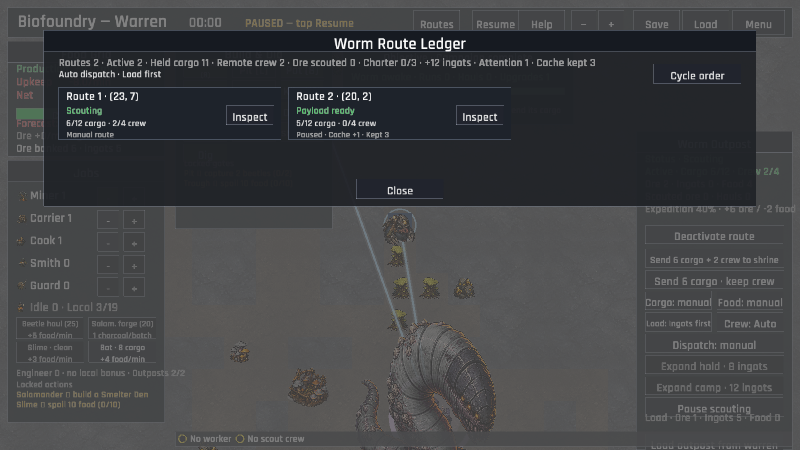
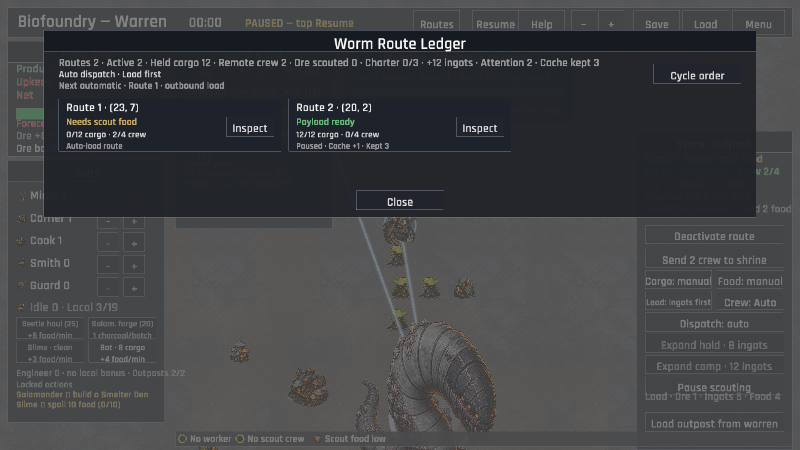
The route book names the next road call before the Worm moves (automatic dispatch preview)
The new automatic priority control changed which policy wins, but the ledger still left the consequence implicit. Share each policy's eligibility predicate between the fixed-step scheduler and a read-only preview so the player can see the exact route and job that would claim the Worm, or that the Worm is currently busy.

Stage the competing-policy capture with a ready outbound load and full automatic return, then document the normal and compact evidence and touch audit. Keep the preview guarded by the same awakened Shrine and transit conditions as actual dispatch.

diff --git a/src/simulation/outposts.rs b/src/simulation/outposts.rs
@@ -3,7 +3,8 @@
 use crate::data::GameData;
 use crate::state::creatures::Good;
 use crate::state::outposts::{
-    CargoPriority, ExpeditionCompletion, Outpost, TransitCompletion, TransitDirection, WormTransit,
+    AutoRoutePriority, CargoPriority, ExpeditionCompletion, Outpost, TransitCompletion,
+    TransitDirection, WormTransit,
 };
 use crate::state::GameSession;
 use macroquad_toolkit::grid::TilePos;
@@ -172,6 +173,14 @@ pub enum ExpeditionState {
     },
 }
 
+/// The next eligible automatic job according to the shared Worm's current
+/// priority and fair route cursor.
+#[derive(Debug, Clone, Copy, PartialEq, Eq)]
+pub struct AutomaticRoutePreview {
+    pub outpost: TilePos,
+    pub priority: AutoRoutePriority,
+}
+
 impl CargoLoad {
     pub fn total(self) -> u32 {
         self.ore
@@ -238,6 +247,70 @@ pub fn has_loadable_payload(session: &GameSession, data: &GameData, outpost: &Ou
                 && creature.carrying.is_none()
                 && creature.tile() == session.stockpile_pos()
         })
+}
+
+/// Preview the automatic job that would claim the Worm if it were free now.
+/// This intentionally uses the same eligibility predicates as the dispatcher,
+/// so the ledger never promises a route the next fixed-step tick cannot start.
+pub fn automatic_route_preview(
+    session: &GameSession,
+    data: &GameData,
+) -> Option<AutomaticRoutePreview> {
+    if !session.worm_awake
+        || session.worm_transit.is_some()
+        || session.buildings_of("worm_shrine").next().is_none()
+    {
+        return None;
+    }
+    for priority in session.auto_route_priority.order() {
+        let index = match priority {
+            AutoRoutePriority::Return => {
+                next_auto_route_index(session, |outpost| auto_return_ready(outpost, data))
+            }
+            AutoRoutePriority::Resupply => next_auto_route_index(session, |outpost| {
+                auto_resupply_ready(session, data, outpost)
+            }),
+            AutoRoutePriority::Load => {
+                next_auto_route_index(session, |outpost| auto_load_ready(session, data, outpost))
+            }
+        };
+        if let Some(index) = index {
+            return Some(AutomaticRoutePreview {
+                outpost: session.outposts[index].pos,
+                priority,
+            });
+        }
+    }
+    None
+}
+
+fn auto_return_ready(outpost: &Outpost, data: &GameData) -> bool {
+    outpost.active
+        && outpost.auto_return_cargo
+        && outpost.cargo_total() >= storage_capacity(outpost, data)
+}
+
+fn auto_resupply_ready(session: &GameSession, data: &GameData, outpost: &Outpost) -> bool {
+    let food_required =
+        (outpost.crew.len() as u32).saturating_mul(data.balance.outpost_expedition_food_per_crew);
+    let food_available = outpost.cargo.get(&Good::CookedFood).copied().unwrap_or(0);
+    let food_ready_at_warren = (session.economy.food - data.balance.worm_feed_reserve)
+        .max(0.0)
+        .floor() as u32;
+    outpost.active
+        && outpost.auto_resupply_food
+        && !outpost.expedition_paused
+        && !outpost.crew.is_empty()
+        && outpost.cargo_total() < storage_capacity(outpost, data)
+        && food_available < food_required
+        && food_ready_at_warren > 0
+}
+
+fn auto_load_ready(session: &GameSession, data: &GameData, outpost: &Outpost) -> bool {
+    outpost.active
+        && outpost.auto_load
+        && !outpost.expedition_paused
+        && has_loadable_payload(session, data, outpost)
 }
 
 pub fn expedition_state(outpost: &Outpost, data: &GameData) -> ExpeditionState {
@@ -332,11 +405,7 @@ pub fn start_auto_return_if_full(session: &mut GameSession, data: &GameData) -> 
     if session.worm_transit.is_some() {
         return None;
     }
-    let index = next_auto_route_index(session, |outpost| {
-        outpost.active
-            && outpost.auto_return_cargo
-            && outpost.cargo_total() >= storage_capacity(outpost, data)
-    })?;
+    let index = next_auto_route_index(session, |outpost| auto_return_ready(outpost, data))?;
     let pos = session.outposts[index].pos;
     if start_transit(
         session,
@@ -363,19 +432,7 @@ pub fn start_auto_resupply_if_needed(
         return None;
     }
     let index = next_auto_route_index(session, |outpost| {
-        let food_required = (outpost.crew.len() as u32)
-            .saturating_mul(data.balance.outpost_expedition_food_per_crew);
-        let food_available = outpost.cargo.get(&Good::CookedFood).copied().unwrap_or(0);
-        let food_ready_at_warren = (session.economy.food - data.balance.worm_feed_reserve)
-            .max(0.0)
-            .floor() as u32;
-        outpost.active
-            && outpost.auto_resupply_food
-            && !outpost.expedition_paused
-            && !outpost.crew.is_empty()
-            && outpost.cargo_total() < storage_capacity(outpost, data)
-            && food_available < food_required
-            && food_ready_at_warren > 0
+        auto_resupply_ready(session, data, outpost)
     })?;
     let pos = session.outposts[index].pos;
     if start_transit(
@@ -399,12 +456,7 @@ pub fn start_auto_load_if_ready(session: &mut GameSession, data: &GameData) -> O
     if session.worm_transit.is_some() {
         return None;
     }
-    let index = next_auto_route_index(session, |outpost| {
-        outpost.active
-            && outpost.auto_load
-            && !outpost.expedition_paused
-            && has_loadable_payload(session, data, outpost)
-    })?;
+    let index = next_auto_route_index(session, |outpost| auto_load_ready(session, data, outpost))?;
     let pos = session.outposts[index].pos;
     if start_transit(
         session,

diff --git a/src/ui/hud/routes.rs b/src/ui/hud/routes.rs
@@ -41,7 +41,7 @@ pub(super) fn draw_route_overview(
     let relay_summary = relay_contract_summary(session, data);
     let convoy_summary = convoy_contract_summary(session, data);
     let transit_summary = worm_transit_summary(session);
-    let summary_lines = 1
+    let summary_lines = 2
         + relay_summary.is_some() as u32
         + convoy_summary.is_some() as u32
         + transit_summary.is_some() as u32;
@@ -82,6 +82,13 @@ pub(super) fn draw_route_overview(
     ) {
         actions.push(UiAction::CycleAutoRoutePriority);
     }
+    summary_y += 18.0;
+    draw_ui_text_ex(
+        &automatic_route_summary(session, data),
+        panel.x + 24.0,
+        summary_y,
+        TextStyle::new(13.0, dark::TEXT_DIM).params(),
+    );
     summary_y += 18.0;
     if let Some(summary) = relay_summary {
         draw_ui_text_ex(
@@ -363,6 +370,25 @@ fn worm_transit_summary(session: &GameSession) -> Option<String> {
         "Worm in transit · {route} {direction} · {:.0}s remaining",
         transit.remaining.max(0.0)
     ))
+}
+
+fn automatic_route_summary(session: &GameSession, data: &GameData) -> String {
+    if session.worm_transit.is_some() {
+        return "Automatic jobs · waiting for Worm".to_owned();
+    }
+    let Some(preview) = crate::simulation::outposts::automatic_route_preview(session, data) else {
+        return "Automatic jobs · none ready".to_owned();
+    };
+    let route = session
+        .outposts
+        .iter()
+        .position(|outpost| outpost.pos == preview.outpost)
+        .map(|index| format!("Route {}", index + 1))
+        .unwrap_or_else(|| "Route".to_owned());
+    format!(
+        "Next automatic · {route} · {}",
+        preview.priority.job_label()
+    )
 }
 
 fn route_needs_attention(outpost: &Outpost, data: &GameData) -> bool {

diff --git a/src/ui/hud/routes/tests.rs b/src/ui/hud/routes/tests.rs
@@ -205,6 +205,46 @@ fn worm_transit_summary_keeps_an_unlisted_route_diagnostic_readable() {
 }
 
 #[test]
+fn automatic_route_summary_names_the_next_ready_job() {
+    let data = GameData::load().expect("embedded game data");
+    let mut session = GameSession::new(&data, 53);
+    let shrine = session.spawn_tile();
+    session.buildings.push(Building::new("worm_shrine", shrine));
+    session.worm_awake = true;
+    let mut route = Outpost::new(TilePos::new(8, 8));
+    route.active = true;
+    route.auto_load = true;
+    session.outposts.push(route);
+    session.economy.ore_stock = 1;
+
+    assert_eq!(
+        automatic_route_summary(&session, &data),
+        "Next automatic · Route 1 · outbound load"
+    );
+}
+
+#[test]
+fn automatic_route_summary_explains_when_the_worm_is_unavailable() {
+    let data = GameData::load().expect("embedded game data");
+    let mut session = GameSession::new(&data, 54);
+    session.outposts.push(Outpost::new(TilePos::new(8, 8)));
+    session.worm_transit = Some(crate::state::outposts::WormTransit {
+        outpost: TilePos::new(8, 8),
+        direction: TransitDirection::ToOutpost,
+        remaining: 4.0,
+        ore: 1,
+        ingots: 0,
+        food: 0.0,
+        passengers: Vec::new(),
+    });
+
+    assert_eq!(
+        automatic_route_summary(&session, &data),
+        "Automatic jobs · waiting for Worm"
+    );
+}
+
+#[test]
 fn route_policy_label_explains_automatic_choices() {
     let mut route = Outpost::new(TilePos::new(4, 4));
     assert_eq!(route_policy_label(&route), "Manual route");

diff --git a/src/game/capture_scenes/post_campaign.rs b/src/game/capture_scenes/post_campaign.rs
@@ -143,6 +143,21 @@ pub(super) fn begin(game: &mut Game, scene: &str) -> bool {
             game.paused = true;
             if let GameState::Warren(session) = &mut game.state {
                 session.auto_route_priority = AutoRoutePriority::Load;
+                session.economy.ore_stock = 1;
+                if let Some(route) = session.outposts.first_mut() {
+                    route.auto_load = true;
+                    route.auto_return_cargo = false;
+                    route.cargo.clear();
+                }
+                if let Some(route) = session.outposts.get_mut(1) {
+                    route.auto_load = false;
+                    route.auto_return_cargo = true;
+                    route.expedition_paused = true;
+                    route.cargo.clear();
+                    route
+                        .cargo
+                        .insert(Good::Ore, game.data.balance.outpost_storage_cap);
+                }
             }
             true
         }

diff --git a/src/simulation/tests/novel/auto_priority.rs b/src/simulation/tests/novel/auto_priority.rs
@@ -1,7 +1,7 @@
 //! Coverage for choosing which automatic job receives the shared Worm first.
 
 use super::active_outpost;
-use crate::simulation;
+use crate::simulation::{self, outposts};
 use crate::state::creatures::Good;
 use crate::state::outposts::AutoRoutePriority;
 use crate::state::structures::Building;
@@ -26,6 +26,11 @@ fn load_first_can_precede_a_ready_automatic_return() {
     session.outposts[1].auto_load = true;
     session.economy.ore_stock = 1;
     session.auto_route_priority = AutoRoutePriority::Load;
+
+    let preview = outposts::automatic_route_preview(&session, &data)
+        .expect("load-first preview should find the second route");
+    assert_eq!(preview.outpost, second_pos);
+    assert_eq!(preview.priority, AutoRoutePriority::Load);
 
     let report = simulation::tick(&mut session, &data);
 

diff --git a/src/state/outposts.rs b/src/state/outposts.rs
@@ -61,6 +61,14 @@ impl AutoRoutePriority {
         }
     }
 
+    pub fn job_label(self) -> &'static str {
+        match self {
+            Self::Return => "cargo return",
+            Self::Resupply => "food resupply",
+            Self::Load => "outbound load",
+        }
+    }
+
     pub fn order(self) -> [Self; 3] {
         match self {
             Self::Return => [Self::Return, Self::Resupply, Self::Load],

diff --git a/docs/phase-one/CANDIDATE_VERIFICATION.md b/docs/phase-one/CANDIDATE_VERIFICATION.md
@@ -47,7 +47,7 @@ automated simulation results into first-time-player evidence.
 | Endless automatic cargo returns | Pass (focused and capture evidence) | An awakened Outpost exposes the persisted `Auto-return · Off` / `Auto-return · Cargo only` policy. When an opted-in hold reaches capacity, the fixed-step simulation starts one cargo-only return, preserves the remote scouts and one configured expedition's food when other cargo creates room, and returns provisions too when they alone fill the hold so the route can resupply. It emits a departure notice and autosaves the safe beat; later routes wait for the global worm transit. Refreshed [ui_endless_auto_return.png](../verification/ui_endless_auto_return.png) shows the enabled policy beside the manual return and scouting controls. Live Preview route interaction remains unclaimed because the resumed developer save has not yet reached the Outpost unlock. |
 | Endless automatic Outpost resupply | Pass (focused and capture evidence) | An awakened Outpost exposes the persisted `Auto-resupply · Off` / `Auto-resupply · Food only` policy. When staffed remote scouts need provisions, the fixed-step simulation starts a food-only transit from the home reserve without dispatching more crew; a manually paused expedition is left untouched. The departure notice, Objective, and field guide name the automatic behavior. Refreshed [ui_endless_auto_resupply.png](../verification/ui_endless_auto_resupply.png) shows the shortage state, enabled policy, and visible recovery controls. Live Preview route interaction remains unclaimed because the resumed developer save has not yet reached the Outpost unlock. |
 | Endless automatic outbound loading | Pass (focused and capture evidence) | An awakened Outpost exposes the persisted `Auto-load · Off` / `Auto-load · Cargo + crew` policy. When an opted-in route has hold room and reserve-safe cargo or eligible local scouts, the fixed-step simulation starts one standard outbound run, respects manual scouting pause and full holds, and shares the persisted round-robin cursor with the other automatic logistics policies. The departure notice, Objective, route ledger, and field guide name the behavior. Refreshed [ui_endless_auto_load.png](../verification/ui_endless_auto_load.png) and [ui_endless_auto_load_started.png](../verification/ui_endless_auto_load_started.png) show the enabled policy and in-flight departure, with compact variants preserving the 800×450 controls. Live Preview route interaction remains unclaimed because the resumed developer save has not yet reached the Outpost unlock. |
-| Endless automatic dispatch order | Pass (focused, capture, and touch-audit evidence) | The shared Worm's automatic route jobs now have a persisted global order: `Return first`, `Food first`, or `Load first`. The Routes ledger exposes `Cycle order`, announces the selected order, and the fixed-step dispatcher uses it when multiple automatic policies are ready while retaining the fair route cursor within each policy. Focused state and simulation coverage verify the cycle, legacy saves default to return-first, and [ui_endless_auto_priority.png](../verification/ui_endless_auto_priority.png) plus [ui_compact_endless_auto_priority.png](../verification/ui_compact_endless_auto_priority.png) show the choice visible and tappable; the 800×450 touch audit reports no overlap. |
+| Endless automatic dispatch order | Pass (focused, capture, and touch-audit evidence) | The shared Worm's automatic route jobs now have a persisted global order: `Return first`, `Food first`, or `Load first`. The Routes ledger exposes `Cycle order`, announces the selected order, and names the exact next eligible route/job, while the fixed-step dispatcher uses the same order when multiple automatic policies are ready and retains the fair route cursor within each policy. Focused state and simulation coverage verify the cycle, preview, scheduler precedence, and legacy return-first default; [ui_endless_auto_priority.png](../verification/ui_endless_auto_priority.png) plus [ui_compact_endless_auto_priority.png](../verification/ui_compact_endless_auto_priority.png) show `Next automatic · Route 1 · outbound load` visible and tappable, and the 800×450 touch audit reports no overlap. |
 | Endless transit failure recovery | Pass (focused and published build evidence) | If an in-flight worm route is deactivated, the simulation restores its payload, records the failed Outpost, and emits a one-shot transit-failure event. The game turns that event into a visible danger notification with the exact recovery action and treats it as a safe-beat autosave, so a refresh cannot erase the route's recovered state. |
 | Multi-route failure visibility | Pass (focused evidence) | Reopening one failed Outpost now clears only that route's failure; the global route warning remains visible while any other Outpost still needs recovery, including when a healthy second route starts a transit. This keeps the top-bar warning consistent with the per-route inspection state as remote routes multiply. |
 | Loaded route failure visibility | Pass (focused and published build evidence) | Installing a save now reconciles each persisted Outpost failure with the global top-bar warning, repairing a missing banner and clearing a stale one. The route records remain authoritative across refresh and load boundaries. |
@@ -71,7 +71,7 @@ automated simulation results into first-time-player evidence.
 | Network route summary | Pass (published capture evidence) | The Worm Route Ledger now summarizes the whole network above its cards: total routes, active routes, held cargo, remote crew, scouted ore, live Worm Road Charter progress/reward, routes needing attention, and aggregate `Cache kept N` earnings when any route has a cache. Each route card also mirrors the selected Outpost's persisted Signal Cache history, showing `Cache +N/haul · Kept N` at normal size and a compact `Cache +N · Kept N` policy line at 800×450. The summary is derived from the same persisted route state as the cards, so scaling from one route to several does not require opening each card to understand the network. Refreshed [ui_endless_routes.png](../verification/ui_endless_routes.png) and [ui_compact_endless_routes.png](../verification/ui_compact_endless_routes.png) keep the summary and route controls readable. |
 | Shared-worm transit diagnostic | Pass (capture and touch-audit evidence) | While one route is traveling, the Worm Route Ledger adds a warning line naming the route, direction, and seconds remaining: `Worm in transit · Route 1 returning · 7s remaining`. A second route with a ready hold now reads `Worm busy · payload ready`, while a home-fed route would read `Worm busy · load ready`, so the single-worm bottleneck is visible both globally and on the waiting card. Refreshed [ui_endless_routes_busy.png](../verification/ui_endless_routes_busy.png) and [ui_compact_endless_routes_busy.png](../verification/ui_compact_endless_routes_busy.png) show the normal and 800×450 states; the settled compact touch audit reports no grown-target overlap. |
 | World-space worm route links | Pass (published capture evidence) | After awakening, the world now draws each shrine-to-Outpost link beneath the buildings, using a bright solid path for active routes and a subdued dashed path for inactive ones. A purchased Waypoint adds a distinct midpoint marker, while an in-flight return shows a high-contrast pulse moving from the Outpost toward the shrine and outbound travel reverses that direction. Refreshed [ui_endless.png](../verification/ui_endless.png), [ui_endless_in_flight.png](../verification/ui_endless_in_flight.png), and [ui_endless_arrived.png](../verification/ui_endless_arrived.png) captures show the network feedback without changing route state or save data. |
-| Settled touch-target audit | Pass (focused evidence) | Every enabled menu/HUD button now registers with the shared touch audit. The opt-in `scripts/audit_touch_targets.ps1` sweep settles each screen for neighbor-aware hit growth, reports the smallest target and drawn density, and fails on actual grown-target overlap. The 800×450 sweep passed for the title, settings, New Warren and active-run Load confirmations, core HUD, crafting, shrine, completion, Recent Events newest and older pages, Outpost, automatic outbound loading enabled and in-flight states, multi-route ledger, Signal Cache purchase, award, and completed-haul screens, and Worm Road Waypoint purchase and award screens; modal occlusion keeps covered controls out of the report. |
+| Settled touch-target audit | Pass (focused evidence) | Every enabled menu/HUD button now registers with the shared touch audit. The opt-in `scripts/audit_touch_targets.ps1` sweep settles each screen for neighbor-aware hit growth, reports the smallest target and drawn density, and fails on actual grown-target overlap. The 800×450 sweep passed for the title, settings, New Warren and active-run Load confirmations, core HUD, crafting, shrine, completion, Recent Events newest and older pages, Outpost, automatic outbound loading enabled and in-flight states, automatic dispatch preview, multi-route ledger, Signal Cache purchase, award, and completed-haul screens, and Worm Road Waypoint purchase and award screens; modal occlusion keeps covered controls out of the report. |
 | State-aware awakened objective recovery | Pass (focused and capture evidence) | After the worm wakes, the Objective now names the visible recovery action when the forge chain is incomplete: place a Blacksmith, replace an exhausted Mine, staff a Smith, or staff a Carrier. The refreshed worm and completion captures show the first of these prompts, and focused coverage keeps the guidance honest for each recovery state. |
 | Multi-route objective ordering | Pass (focused evidence) | If several active Worm Outposts are present, the completed-campaign Objective prioritizes a route with cargo or crew ready, then a route that can be loaded, before an empty active route. This keeps the next visible instruction actionable as the existing outpost activity scales. |
 | Crowding recovery diagnosis | Pass (focused and capture evidence) | The Jobs panel now turns the existing local-capacity penalty into an actionable warning: when local workers exceed floor capacity it shows the estimated work-rate loss and the visible `Dig` control to open more room. The warning is absent when capacity is sufficient, and [ui_crowding.png](../verification/ui_crowding.png) keeps the diagnosis readable at 800×450. |
@@ -343,6 +343,14 @@ automated simulation results into first-time-player evidence.
   the enabled policy and
   [ui_endless_auto_load_started.png](../verification/ui_endless_auto_load_started.png)
   showing its in-flight notice.
+- Endless automatic dispatch preview — pass; the route ledger derives the
+  next automatic job from the selected global priority, the shared Worm's
+  availability, and the same fair route cursor used by the fixed-step
+  scheduler. It names `Next automatic · Route 1 · outbound load` when the
+  competing scene has a ready load-first route and changes to `Automatic jobs
+  · waiting for Worm` during transit, so the priority control has a visible
+  consequence before the next tick. Focused preview and scheduler coverage
+  pass, with normal and compact captures linked above.
 - Endless transit failure recovery — pass; an in-flight route that loses its
   active Outpost now restores its payload and records the failure in the
   simulation report exactly once. The game announces the touch-first recovery
@@ -443,7 +451,8 @@ automated simulation results into first-time-player evidence.
   and its 800×450 completion/Endless path was exercised successfully.
 - Settled touch-target audit — pass; `scripts/audit_touch_targets.ps1` walks
   the title, settings, confirmation, core HUD, crafting, shrine, completion,
-  Outpost, automatic outbound loading enabled and in-flight, multi-route ledger,
+  Outpost, automatic outbound loading enabled and in-flight, automatic dispatch
+  preview, multi-route ledger,
   Signal Cache purchase, award, and haul, and
   Worm Road Waypoint purchase and award
   scenes at 800×450 after the neighbor map is warm. Enabled controls are
